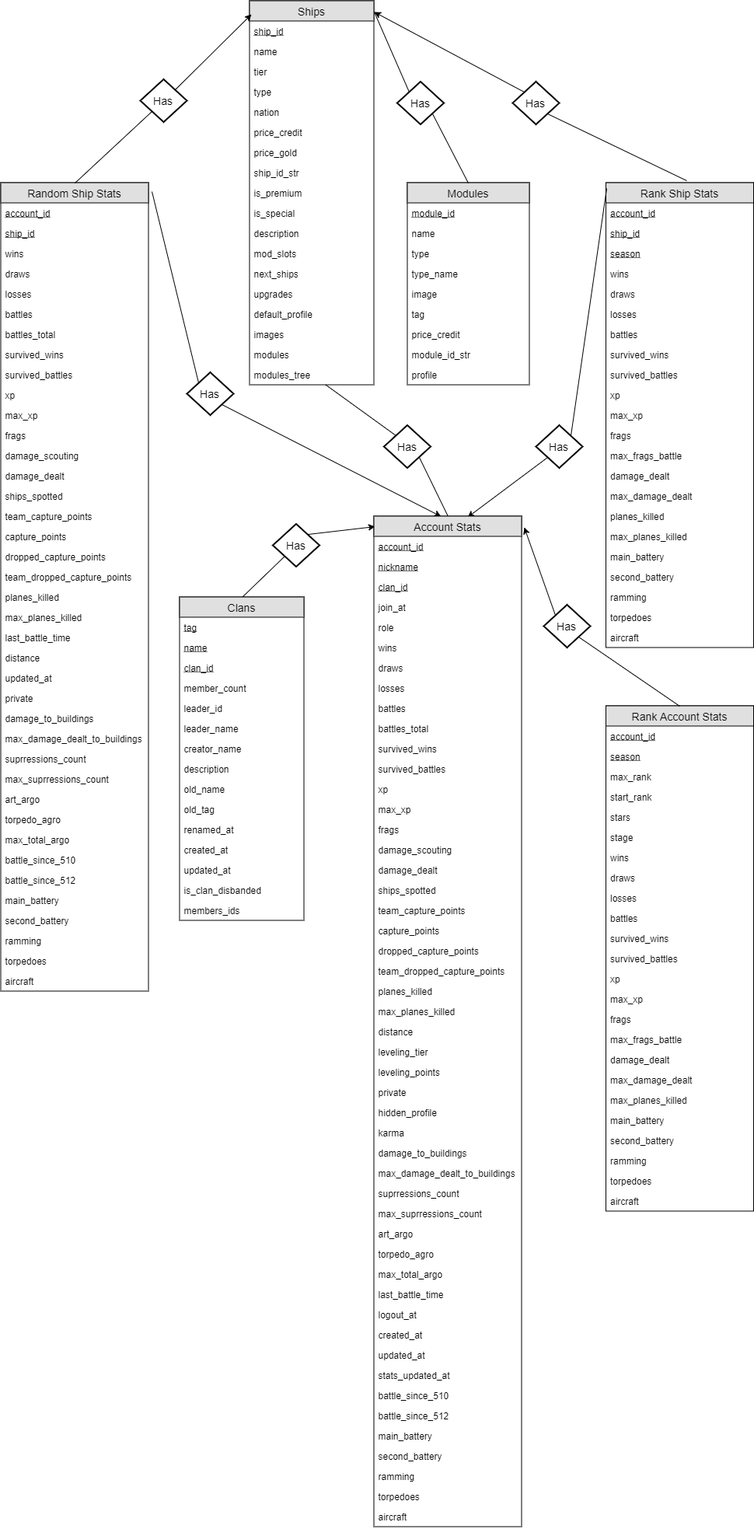
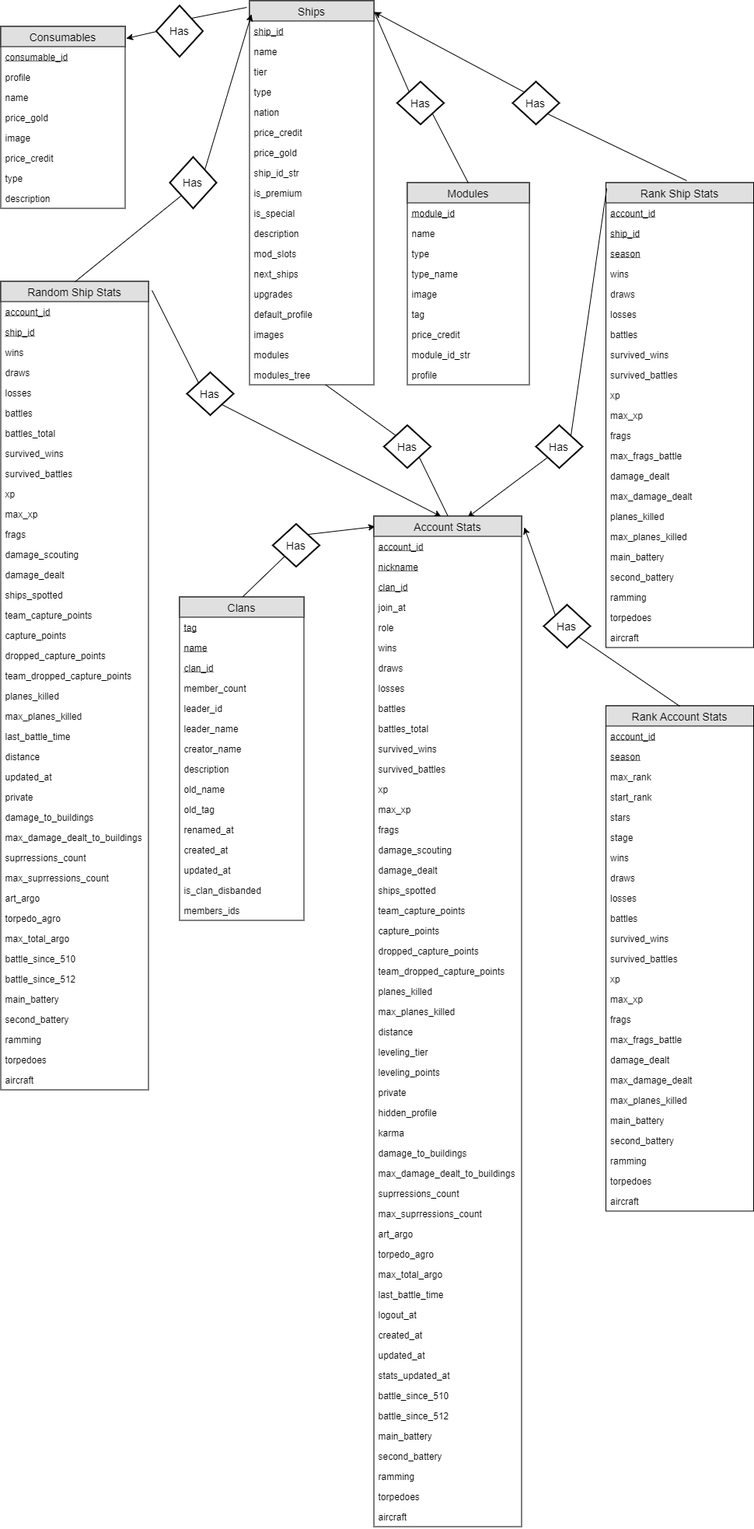
Add files via upload

Changed region(s): [[0.0, 0.0, 0.2784, 0.7133], [0.3093, 0.0, 0.3402, 0.031], [0.2474, 0.093, 0.2784, 0.124]]

diff --git a/uss-illini/src/Library/API2Command.py b/uss-illini/src/Library/API2Command.py
@@ -10,12 +10,13 @@ Main Methods:
     list("") = example_ship_ids #all non-gold ships id
     list("") = example_module_ids #all shima's module
     list("") = example_clan_ids #kuma, seal
+    list("") = example_consumable_ids  #all shima's module
 '''
 import InsertCommand
 import Ship_idDict
 import API2Python as a2p
 
-def insertDB(account_ids,ship_ids,module_ids,clan_ids):
+def insertDB(account_ids,ship_ids,module_ids,clan_ids,consumable_ids):
     result = ""
     for account_id in account_ids:
         result += InsertCommand.insert_account_stats(account_id)
@@ -29,6 +30,8 @@ def insertDB(account_ids,ship_ids,module_ids,clan_ids):
         result += InsertCommand.insert_ship(ship_id)
     for clan_id in clan_ids:
         result += InsertCommand.insert_clan(clan_id)
+    for consumable_id in consumable_ids:
+        result += InsertCommand.insert_consumables(consumable_id)
     return result
 
 example_account_ids = ["1011528019","1019218342"]
@@ -37,3 +40,6 @@ all_ship_ids = [Ship_idDict.ship_id_dict[nation][ship_type][tier][ship] for nati
 all_module_ids = list(set([module_id for ship_id in all_ship_ids for module_id in a2p.get_ship_encyclopedia(a2p.application_id,ship_id)[44].keys()]))
 all_module_ids_fast = ['3423449072', '3442913232', '3423350768', '3350179024', '3558584304', '3440783056', '3348508464', '3453988816', '3444551632', '3979325424', '3340611408', '3559796432', '4178325200', '3554029264', '4072058576', '3350179632', '3849727440', '3968708432', '4293668688', '3422302192', '3554422480', '4061573072', '4082905040', '4157451984', '3433836528', '3554422768', '3978702288', '3549278000', '3967561712', '3453988656', '3453890256', '3873287984', '3925618384', '3642142416', '3538693840', '4291800784', '3444420048', '3317673680', '3549179856', '3318722256', '3968839664', '3442880208', '3663114192', '3768430384', '3822039024', '3874336464', '3979194064', '3851169232', '3538792400', '3979194352', '3552980688', '3338055120', '3977654224', '3454414640', '3451301872', '3761090384', '3664129744', '3664752464', '3761647312', '3549179728', '3747360592', '3874467024', '3758993104', '3758534640', '4052725456', '3455004656', '3967200720', '3454808016', '4083003088', '3442913264', '4293898192', '3447107280', '4292259280', '3556749008', '3967561680', '3978047312', '3766464304', '3758993392', '4083560400', '3769577168', '3747590128', '3538694128', '3348508112', '3662032688', '3863752400', '3441405392', '4061933008', '3843010256', '4188450608', '4073467888', '4188811088', '3873877200', '3349917392', '3768429776', '3842420432', '3978014704', '3348967120', '3873189680', '4293668048', '3453365712', '3659935440', '3455036624', '3874467664', '3978276656', '4062621648', '3663572688', '3767938864', '3767283696', '3558616880', '3538693584', '3872796624', '3454939120', '3975556912', '3443273520', '3768463056', '3767381712', '4155944400', '3339104240', '3557797584', '3863818224', '3744214736', '3342216912', '3548131312', '3443961808', '3979096016', '3863392080', '4187402224', '3652988368', '3862343472', '3454446800', '3453824720', '3937382096', '3662491344', '3764793296', '3507236560', '4083133904', '3452317488', '3662425904', '3865030480', '3550457680', '4083592400', '3423350480', '3555110896', '3630608080', '4293308240', '3422400496', '3559632880', '3873157104', '4081496016', '4073467856', '3347853264', '4082904784', '4189040464', '3557567696', '3756404176', '3872829264', '3449204720', '3966512848', '3977686832', '3558813680', '3769577456', '3655315280', '3558617040', '3349556432', '3538923216', '3452350448', '3452710704', '4073565648', '3537874384', '4073074640', '3660984112', '3329208016', '3871092688', '3452350256', '4073697232', '3505139408', '3350047952', '3758894928', '3841732592', '3758534096', '3736973296', '3735924720', '3978735440', '3348901680', '3924569808', '3663474640', '4081463280', '3443928784', '3874335952', '3968610000', '3551932112', '3766889680', '3632017392', '4061572816', '3454807888', '4292259536', '4081495856', '3558682320', '4073467696', '3862704112', '3862802384', '3339464528', '3350146768', '3450613744', '3347492560', '4083953456', '4186320880', '3662524368', '3979096048', '3851267536', '3559272272', '3936759248', '3766235120', '3769511920', '3537743824', '3968610288', '3977686736', '3979063280', '4189040432', '3977654256', '4073107440', '3769347792', '4062981584', '3558223824', '3339693776', '3873844432', '3633295344', '4292259024', '3611143888', '3632017104', '4185665328', '3967561520', '3650530768', '3336548144', '3536203216', '3349557200', '3559894992', '3758993360', '3556617936', '4188450768', '3556159472', '3652988752', '4080905936', '3978178544', '3660328944', '3760041808', '3558256432', '3957174256', '4072058672', '3444420304', '4062031824', '3653677040', '4072419120', '4083593040', '4188450640', '3852906480', '3443961648', '4083593008', '3663081264', '3766234576', '3344314064', '3421482704', '3631656656', '4166790608', '3659280368', '3871747792', '3862703952', '3349950448', '3455037264', '3664620752', '3348082640', '3757486064', '3769610032', '3664523216', '3451301680', '3863752496', '3556519728', '3433475792', '3443273712', '3444551472', '3619434192', '3453857776', '3339693520', '3447467472', '3444321744', '4293898064', '3453857584', '4083593200', '3768430032', '3432427216', '3642503120', '4083560240', '3454414544', '3979194160', '3632705520', '3536825808', '3550326608', '3872829424', '3548229424', '3642109648', '3861655344', '3663114032', '3768332080', '3978735056', '3976998704', '3664752080', '4185272016', '3651579344', '4188418000', '3874238448', '3329076944', '3663081168', '3663081424', '3969757008', '3862802224', '4187402032', '4188811248', '3454774992', '3661376976', '3559665456', '3937251312', '3767512880', '3873877808', '3758993200', '3979095504', '3557666608', '4083134416', '3559272144', '3443928528', '3763318768', '3537874640', '3451301584', '4082544592', '3507334864', '4177276624', '3663081456', '3448122832', '3862343504', '3757944624', '4082904912', '3763187696', '3652988912', '3958353904', '4082544432', '3443273680', '3308105424', '3559763952', '3339464144', '3348868816', '3874434768', '4062621680', '4188909552', '3654266864', '3442913072', '3863392048', '4187762672', '3767971632', '3976998864', '4061933264', '3725340656', '3453759280', '3643781072', '3862704080', '3350048720', '3453398224', '4061573104', '3736514544', '3874205392', '3454938832', '4072058704', '4084051152', '4293766960', '3871092528', '3664523088', '3968610096', '3763089392', '4083134448', '3549278032', '3453890544', '4073107280', '3874238288', '4084051792', '3768331472', '3630968528', '3660328656', '3558584016', '3449565168', '3350081232', '3766234928', '4082904880', '3555471344', '3851398608', '4061572560', '3643551696', '3559305168', '3768987600', '3664490192', '3746312176', '3631656944', '3346444272', '3559665488', '3747000272', '3664129872', '3654266672', '3347034064', '3726388944', '3873877968', '3444551664', '3664162640', '3767282896', '4062031856', '3538693936', '3979193808', '3349131056', '3725340368', '3832295120', '3863392208', '3766923056', '4186943280', '3874336720', '3454414672', '3977686224', '3553374192', '4083134256', '3556519888', '3832524240', '3348901328', '3748048848', '3747000144', '3349000176', '3349557072', '3339562800', '3968249808', '3444420432', '3758993232', '3443371824', '3450253296', '3453398480', '4084182832', '3978702544', '3967659824', '3412864720', '3559763920', '3641454576', '4187992016', '3873189072', '3553013744', '4073696720', '3641454288', '3622678224', '3453398992', '3767939024', '4167478736', '4062982128', '3318591184', '4186353456', '3978047280', '3662425552', '3978145488', '3350179280', '3968708048', '3442913104', '3748507600', '3664621392', '4292259664', '4073566160', '3347853296', '3455037392', '3768299216', '3978735408', '3978046928', '3653087216', '3978735312', '3453366224', '3661377232', '3421253616', '4084183024', '3863392240', '3557208016', '3830198256', '3978047472', '3758992848', '3558616912', '3978702672', '3757485776', '3759124464', '3409358544', '3559730896', '3873419056', '3840683728', '3654036944', '3453759184', '3958222832', '4166430416', '3558223856', '3768299504', '3345854448', '3350048560', '4187402192', '3453398864', '3766234832', '3664654320', '3556618224', '3538333488', '3978047440', '3633163984', '3349000144', '3454906192', '3759124304', '3642502864', '3661017072', '3850120656', '3653087024', '3663572432', '4292259824', '3411816144', '3559305008', '3642503152', '3517820912', '3643650000', '3979193552', '3748048592', '3643158224', '3549409264', '3662655440', '4167478992', '3863850960', '3747000016', '3757846352', '4083559632', '3348999632', '3654135632', '3978243792', '3559862256', '3658919920', '3977096912', '4291210960', '4062982096', '3652628304', '3967561168', '4178554576', '3659968496', '3348901584', '3863850992', '3968708560', '3517951984', '4187762512', '3339464400', '3548819408', '3767513072', '3724521168', '4188417232', '3556519632', '3662524112', '3339562704', '3547770704', '4073107408', '3444420592', '3328618192', '3758534480', '3967200976', '3443503056', '3559271632', '3978014416', '3549179888', '3769446096', '3735924432', '3432427504', '3756436944', '3862343376', '3338644944', '3664751824', '3454414832', '3643191248', '3621531344', '3454807856', '3979095760', '3350179792', '3549278160', '3747360720', '3452710896', '3850776016', '3968249552', '3872239568', '3664130000', '3653676880', '4073566032', '3350048752', '3443371984', '4188450800', '3967201232', '3757485904', '3976638416', '3558846288', '3978276816', '3758534608', '4072419280', '4292849104', '3864899408', '3664752592', '3874467824', '3548819152', '4188417488', '3747459024', '4188909520', '3432787952', '3453365968', '3422531280', '4188811056', '4187991856', '3432787664', '4293308400', '3662032336', '3768397520', '4063080144', '3438685904', '4052594672', '3348541232', '3557567952', '4168068560', '3967561424', '3967201072', '4084182864', '3454414032', '3945541616', '3758960624', '3956715504', '4293307856', '3967201264', '4186714064', '4073107152', '3536596688', '3349032656', '4082511664', '4293767120', '4187860784', '3442912976', '4073566000', '3454447408', '3976605680', '3664752432', '3453759440', '3652628272', '4083953488', '4063080432', '3621760720', '4084051952', '3444322096', '4293766992', '3979161296', '3558845648', '3862802416', '3455036880', '3620482768', '3979194320', '3663703856', '3652988720', '3453398832', '4293898032', '3664654032', '3871780560', '3434065360', '3765284848', '4072058832', '3411455696', '3434065904', '3874467536', '3433836240', '3339104048', '4178325488', '3664490480', '4084051760', '3557666256', '4084182480', '3452317648', '3748409296', '3454414800', '3662655472', '3766235088', '3553373904', '3642601424', '3643190992', '3556749296', '3765874480', '3328978640', '4073697264', '3975950128', '3664130032', '3737563120', '3349557232', '4073467728', '4157582800', '3422990032', '3663539920', '3871780656', '3979325264', '3968708304', '3768560848', '4187761872', '3872829392', '3548131024', '3759550160', '3549179600', '4177276912', '3748638672', '4167839184', '3349950288', '3873845072', '3412504272', '3557699568', '3767971024', '3643551440', '3538333136', '3655184208', '4186320592', '3664621360', '3967791088', '4082904272', '3874467632', '3659378672', '3769020208', '3537284912', '3661377520', '3450843120', '3339103696', '4156992976', '3765186352', '3757486032', '3558846416', '3445469008', '3766923216', '3451301840', '3747360752', '3759124272', '3451662128', '3654037296', '4072419312', '3759124176', '3558813392', '3654037200', '3765841872', '3967659984', '4080414416', '3536596784', '3318722544', '3871321808', '4083003184', '3872828624', '3347459536', '3766922448', '3979062992', '3870044144', '3556159440', '3758534352', '3841371856', '4072418768', '3978702800', '4187401424', '4187369456', '3349949904', '3622579920', '3557568464', '3559272400', '3863981872', '3968249680', '3347459888', '3968839632', '3642142672', '3552325616', '3558715088', '4074614608', '3872829136', '3769348080', '3538791888', '3664719568', '3747589584', '3979325232', '3339562448', '3556519376', '3664621520', '4073565904', '3842780880', '3559894864', '4073696976', '3979227120', '3979324880', '3663474480', '3610095312', '3339103952', '3348082672', '3758501872', '3451760080', '3662065648', '3350179664', '3768987440', '3444322128', '3454447440', '3554422224', '3660328912', '3745263312', '3443273424', '3664162000', '3527814608', '3968249840', '4072517424', '3968610128', '3348508656', '4081856304', '3958124240', '3664523056', '3664719856', '3451760624', '4187369264', '3957763792', '3874336592', '4062981840', '4073467600', '3660427248', '3767283504', '3538333392', '3863752688', '3447074256', '3533057488', '3547770832', '3454447568', '3873386192', '3831246288', '3663572976', '3873189584', '3977687024', '3870732080', '3659968464', '3870044112', '3526799344', '3873845232', '3767513040', '3841961680', '3348901840', '3769478960', '3861294544', '3926896336', '3554062320', '3766923248', '3978735600', '3873287888', '4052135920', '3349589968', '3767348944', '3654135792', '4083003344', '4082511568', '3769479152', '3760631504', '4283182544', '3873189840', '3979095888', '3347034096', '3340742480', '3863850832', '3439734480', '3348508368', '3968708592', '3979095248', '3663474512', '3537645008', '3663080656', '3977686864', '3978145584', '3455004368', '3643551728', '3872108528', '3874369520', '3664522704', '3558714832', '4156304848', '4186353616', '4293308368', '4072419152', '3664588496', '4292259632', '3734875856', '4080447280', '3549409072', '3452809168', '3555471056', '4051447504', '3872239600', '3869683664', '3653676848', '3452350160', '3721375440', '3347492816', '3559632592', '3968839472', '3448155856', '3454906320', '3451269104', '3738152656', '3559665616', '3663441616', '3755388368', '3870732240', '3506187984', '3445600080', '3318493168', '3755355600', '3872141104', '3433934544', '3736874704', '3433476080', '3768430288', '3977653456', '3757846320', '4189040592', '3976605488', '4291571408', '3349131216', '3452710864', '3652628464', '3862343632', '3979292368', '3349557040', '3443404784', '3757845968', '3979325392', '3661377328', '3664129840', '3546721744', '3632705232', '3762040816', '4293897424', '3544624592', '3349950256', '3559861968', '3558747856', '3874435056', '4082544624', '3758895056', '3874467792', '3558256464', '4073107248', '4157451728', '3526111216', '3337596720', '4292259792', '3451891152', '3346411216', '3863981776', '3863850704', '4082511856', '3557207856', '3538923312', '3832294864', '3557633744', '3547770576', '3873189872', '4080807728', '3652627920', '3759582928', '3758894544', '3853364944', '3757846480', '4084051408', '3549408976', '3437669840', '4292718288', '3545673168', '4188417840', '3975589680', '4189039824', '3873419248', '3870731984', '3558714576', '3978702032', '3978244080', '3831934416', '3350048208', '3968839376', '4167937488', '3874205680', '4157353424', '3831246832', '3873418960', '3748409168', '3737923280', '3760598736', '3630968816', '3537645360', '3769511632', '4185665488', '3968708400', '3349589456', '3349556944', '3633295056', '4063211216', '3956715216', '3548819440', '3978702832', '3863752656', '3748507344', '3757846224', '4072058864', '3443961680', '4186812400', '3957764080', '3978702640', '4072058320', '3558256592', '3654135600', '3436621264', '3874238416', '3557568304', '4293668656', '4083953648', '3345362640', '3554652144', '3339464688', '3853266928', '4293767152', '3349950416', '3726389232', '3654135248', '4063211504', '3559305040', '3432885968', '3444387824', '3348508624', '3433017136', '3661016880', '3664162768', '3444322288', '3975950288', '3830885840', '3976998896', '3443961296', '3453759312', '3957075664', '3555569648', '3658231792', '3347918544', '3547770320', '3842781168', '3451662320', '3831901648', '3663572784', '3442224592', '4082544464', '4074745680', '3958124528', '3957075952', '4189040624', '3443502800', '3663473872', '3454775280', '3620712144', '3453726416', '3348999984', '3968839120', '3454807248', '3874238256', '3444420400', '3872239312', '4187762640', '3654037328', '3350179824', '3349098192', '3556126512', '3663474128', '3757485520', '3453758672', '4084182224', '3873844944', '3758534448', '3454414288', '3559272432', '4187402064', '3453365456', '3979292656', '4293766352', '3832393168', '3339464496', '4187992048', '3559763760', '3448516048', '3557175248', '3548819280', '3872795856', '3441831632', '3451662288', '3968610256', '3318492880', '3548131152', '3663114064', '3870273232', '3863752528', '3977654064', '3978734800', '4083952848', '3536596976', '4293668816', '3664162608', '3550883536', '3853365232', '3860245968', '4187368912', '3601247952', '3862703920', '3863850800', '3757453008', '3653643728', '3662065456', '3872370640', '4061933552', '3555470800', '4293308208', '3558255824', '3874336560', '3527159792', '4061933520', '3546263344', '3873877712', '3410865872', '4283280848', '3452350416', '3759026160', '3873255120', '3769609680', '3873156816', '3318132720', '3830197968', '3861655248', '3453366064', '3558748144', '3766890288', '3661377488', '3978735568', '3769380656', '3967561552', '3663605456', '3978276848', '4178423504', '3654037488', '4052135632', '3872796464', '3968249648', '3534106064', '4083559888', '3341168336', '3968249296', '3863982032', '3555569360', '4082543824', '3549245424', '3766890192', '3454906160', '3873878000', '3872796368', '4187762480', '4188909360', '3443273168', '3768987632', '3454873296', '3653676496', '3549277904', '3443961840', '3975589840', '4063211472', '3434065616', '4073697072', '3768987472', '3874336752', '3977653968', '3549408720', '3759124432', '3761680080', '3968609744', '4062621392', '3410767568', '3978047184', '3422301904', '3547311920', '3874237648', '3452940272', '4082905072', '3926765264', '3664129232', '3629559504', '3443273552', '3869650640', '3409718992', '3349589808', '3874303696', '3556159280', '3957730768', '3660983760', '3349949648', '3871747888', '3762728656', '4293668848', '3549278192', '3549409232', '3874238160', '3661475824', '4083592912', '3947638768', '3452809200', '3765874640', '3410407120', '3537645552', '3978276304', '3346410960', '3556125904', '3968675824', '3873189712', '3548262384', '3757485872', '4052496080', '3765841104', '3527847920', '3658886864', '4292849648', '3976638256', '3841732304', '3442912720', '3660558320', '3873877840', '3978046672', '3350015696', '3557666512', '4072419024', '3654103024', '3535777232', '4157583344', '3871748080', '3870699472', '3748048720', '3558616272', '3454447056', '3349589840', '3421253328', '4186713904', '3659935696', '3347951600', '3852218352', '3976605392', '3423448784', '3762728944', '3727437520', '3976605648', '3873845200', '3455037232', '3863982064', '3350048592', '4188909392', '3548786480', '4073467344', '4062621136', '3349589712', '3548131280', '3557207248', '3661017040', '3663113424', '4188810448', '4051087344', '3969888080', '3557175088', '3444322256', '3664522448', '3349590000', '3851857904', '3767283664', '3516772336', '3767381968', '3444420560', '3977686480', '3870142160', '4188811216', '3654266576', '3979095856', '3977686992', '3748015568', '3547770864', '3559763792', '4083560272', '3349589200', '4185304880', '3537645264', '4081856464', '3765874672', '3444322000', '3434065712', '3454905808', '3307056848', '3758894800', '3979324624', '3863391952', '3653217744', '3537284560', '4083953360', '3748409328', '3339104080', '4188450000', '3453955792', '4293307600', '3767283152', '3761680368', '3979194192', '3767283408', '4189040336', '3758894896', '3652988624', '3872829232', '3873845040', '3347951568', '3874369232', '4187860944', '3760172880', '3967201104', '3454905552', '3348541392', '3411914448', '3452776144', '4185305040', '4188908752', '3663441904', '3978145744', '4073106896', '3831246544', '4063080400']
 example_clan_ids = ["1000043952","1000044201"]
+example_consumable_ids = ['4273131440','4265791408','4260548528','4261597104','4262645680','4263694256','4287811504','4267888560','4268937136','4269985712','4271034288','4272082864','4264742832','4274180016','4275228592','4266839984','4280471472','4281520048','4282568624']
+all_consumable_ids = list(set([str(consumable_id) for ship_id in all_ship_ids for consumable_id in a2p.get_ship_encyclopedia(a2p.application_id,ship_id)[13]]))
+all_consumable_ids_fast = ['4259499952', '4287811504', '4267888560', '4272082864', '4257402800', '4280471472', '4260548528', '4275228592', '4268937136', '4261597104', '4284665776', '4290957232', '4274180016', '4276277168', '4281520048', '4283617200', '4264742832', '4263694256', '4273131440','4265791408', '4266839984', '4269985712', '4278374320', '4282568624', '4262645680', '4271034288', '4279422896', '4277325744']

diff --git a/uss-illini/src/Library/TableSchema.py b/uss-illini/src/Library/TableSchema.py
@@ -42,8 +42,8 @@ TABLES['random_ships_stats'] = ("""CREATE TABLE IF NOT EXISTS random_ships_stats
         battles_total INTEGER,
         battles_since_510 INTEGER,
         battles_since_512 INTEGER,
-        ship_id INTEGER,
-        account_id INTEGER,
+        ship_id BIGINT,
+        account_id BIGINT,
         main_battery_max_frags_battle INTEGER,
         main_battery_frags INTEGER,
         main_battery_hits INTEGER,
@@ -70,7 +70,7 @@ TABLES['modules'] = ("""CREATE TABLE IF NOT EXISTS modules(
         image TEXT,
         tag VARCHAR(50),
         module_id_str VARCHAR(50),
-        module_id INTEGER,
+        module_id BIGINT,
         price_credit INTEGER,
         profile TEXT,
         KEY(module_id)
@@ -84,7 +84,7 @@ TABLES['ships'] = ("""CREATE TABLE IF NOT EXISTS ships(
         price_credit INTEGER,
         price_gold INTEGER,
         ship_id_str VARCHAR(50),
-        ship_id INTEGER,
+        ship_id BIGINT,
         is_premium BOOLEAN,
         is_special BOOLEAN,
         description TEXT,
@@ -129,14 +129,14 @@ TABLES['clans'] = ("""CREATE TABLE IF NOT EXISTS clans(
         tag VARCHAR(50) UNIQUE,
         name VARCHAR(50) UNIQUE,
         members_count INTEGER,
-        leader_id INTEGER,
+        leader_id BIGINT,
         leader_name VARCHAR(50),
         creator_name VARCHAR(50),
         description TEXT,
         old_name VARCHAR(50),
         old_tag VARCHAR(50),
         renamed_at INTEGER,
-        clan_id INTEGER,
+        clan_id BIGINT,
         created_at INTEGER,
         updated_at INTEGER,
         is_clan_disbanded BOOLEAN,
@@ -146,7 +146,7 @@ TABLES['clans'] = ("""CREATE TABLE IF NOT EXISTS clans(
 
 TABLES['account_stats'] = ("""CREATE TABLE IF NOT EXISTS account_stats(
         nickname VARCHAR(50) UNIQUE,
-        account_id INTEGER,
+        account_id BIGINT,
         wins INTEGER,
         draws INTEGER,
         losses INTEGER,
@@ -206,17 +206,17 @@ TABLES['account_stats'] = ("""CREATE TABLE IF NOT EXISTS account_stats(
         torpedoes_shots INTEGER,
         aircraft_max_frags_battle INTEGER,
         aircraft_frags INTEGER,
-        clan_id INTEGER,
-        account_id_clan INTEGER,
+        clan_id BIGINT,
+        account_id_clan BIGINT,
         account_name VARCHAR(50),
         role VARCHAR(50),
         joined_at INTEGER,
         KEY (account_id)
 );""")
 
-TABLES['rank_ships_stats'] = ("""CREATE TABLE IF NOT EXISTS rank_ship_stats(
+TABLES['rank_ships_stats'] = ("""CREATE TABLE IF NOT EXISTS rank_ships_stats(
         season INTEGER,
-        ship_id INTEGER,
+        ship_id BIGINT,
         wins INTEGER,
         draws INTEGER,
         losses INTEGER,
@@ -246,7 +246,7 @@ TABLES['rank_ships_stats'] = ("""CREATE TABLE IF NOT EXISTS rank_ship_stats(
         torpedoes_shots INTEGER,
         aircraft_max_frags_battle INTEGER,
         aircraft_frags INTEGER,
-        account_id INTEGER,
+        account_id BIGINT,
         KEY (account_id,ship_id,season)
 );""")
 
@@ -286,6 +286,18 @@ TABLES['rank_account_stats'] = ("""CREATE TABLE IF NOT EXISTS rank_account_stats
         torpedoes_shots INTEGER,
         aircraft_max_frags_battle INTEGER,
         aircraft_frags INTEGER,
-        account_id INTEGER,
+        account_id BIGINT,
         KEY (account_id,season)
+);""")
+
+TABLES['consumables'] = ("""CREATE TABLE IF NOT EXISTS consumables(
+        profile TEXT,
+        name VARCHAR(50),
+        price_gold INTEGER,
+        image TEXT,
+        consumable_id BIGINT,
+        price_credit INTEGER,
+        type VARCHAR(50),
+        description TEXT,
+        KEY (consumable_id)
 );""")

diff --git a/uss-illini/src/Library/API2Python.py b/uss-illini/src/Library/API2Python.py
@@ -15,6 +15,7 @@ Main Methods:
     tuple = get_account_data(application_id,account_id)
     string = get_account_id(application_id,nickname)
     string = application_id
+    tuple = get_consumables_encylopedia(application_id,consumable_id)
 
 Indexing:
     Read Details Below
@@ -112,6 +113,25 @@ def get_module_encylopedia(application_id,module_id):
         profile = data['data'][module_id]['profile'][list(data['data'][module_id]['profile'])[0]] #8 {attr:data,...}
 
         return (name,type,type_name,image,tag,module_id_str,int(module_id),price_credit,profile)
+    except:
+        return
+
+def get_consumables_encylopedia(application_id,consumable_id):
+    link = "https://api.worldofwarships.com/wows/encyclopedia/consumables/?application_id="+application_id+"&consumable_id="+consumable_id
+    resp = urllib.request.urlopen(link).read()
+    data = json.loads(resp)
+
+    try:
+        profile = data['data'][consumable_id]['profile'] #0 {attr:data,...}
+        name = data['data'][consumable_id]['name'] #1
+        price_gold = data['data'][consumable_id]['price_gold'] #2
+        image = data['data'][consumable_id]['image'] #3
+        #consumable_id = data['data'][consumable_id]['consumable_id'] #4
+        price_credit = data['data'][consumable_id]['price_credit'] #5
+        type = data['data'][consumable_id]['type'] #6
+        description = data['data'][consumable_id]['description'] #7
+
+        return (profile,name,price_gold,image,int(consumable_id),price_credit,type,description)
     except:
         return
 

diff --git a/uss-illini/src/Library/InsertCommand.py b/uss-illini/src/Library/InsertCommand.py
@@ -35,6 +35,29 @@ def insert_module(module_id):
     else:
         return ""
 
+def insert_consumables(consumable_id):
+    data = a2p.get_consumables_encylopedia(a2p.application_id,consumable_id)
+    if not isinstance(data, type(None)):
+        command = 'INSERT INTO consumables VALUES'+'('
+        for value in data:
+            if isinstance(value,str):
+                command += "'"
+                command += str(value.replace("'", ""))
+                command += "',"
+            elif isinstance(value,list) or isinstance(value,dict):
+                command += '"'
+                command += str(value).replace('"', "")
+                command += '",'
+            elif value is None:
+                command += "NULL,"
+            else:
+                command += str(value)+","
+        command = command[:-1]
+        command +=  ');'
+        return command
+    else:
+        return ""
+
 def insert_ship(ship_id):
     data =  a2p.get_ship_encyclopedia(a2p.application_id,ship_id)
     if not isinstance(data, type(None)):
